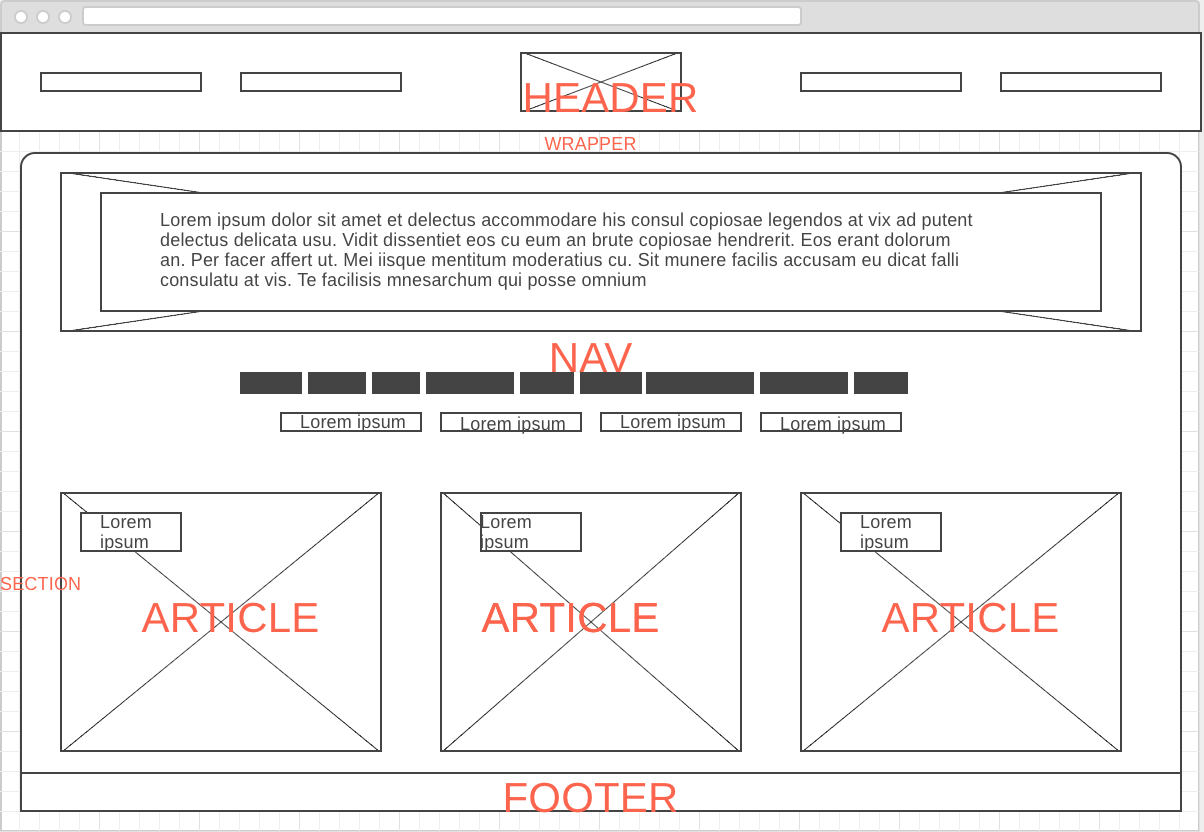
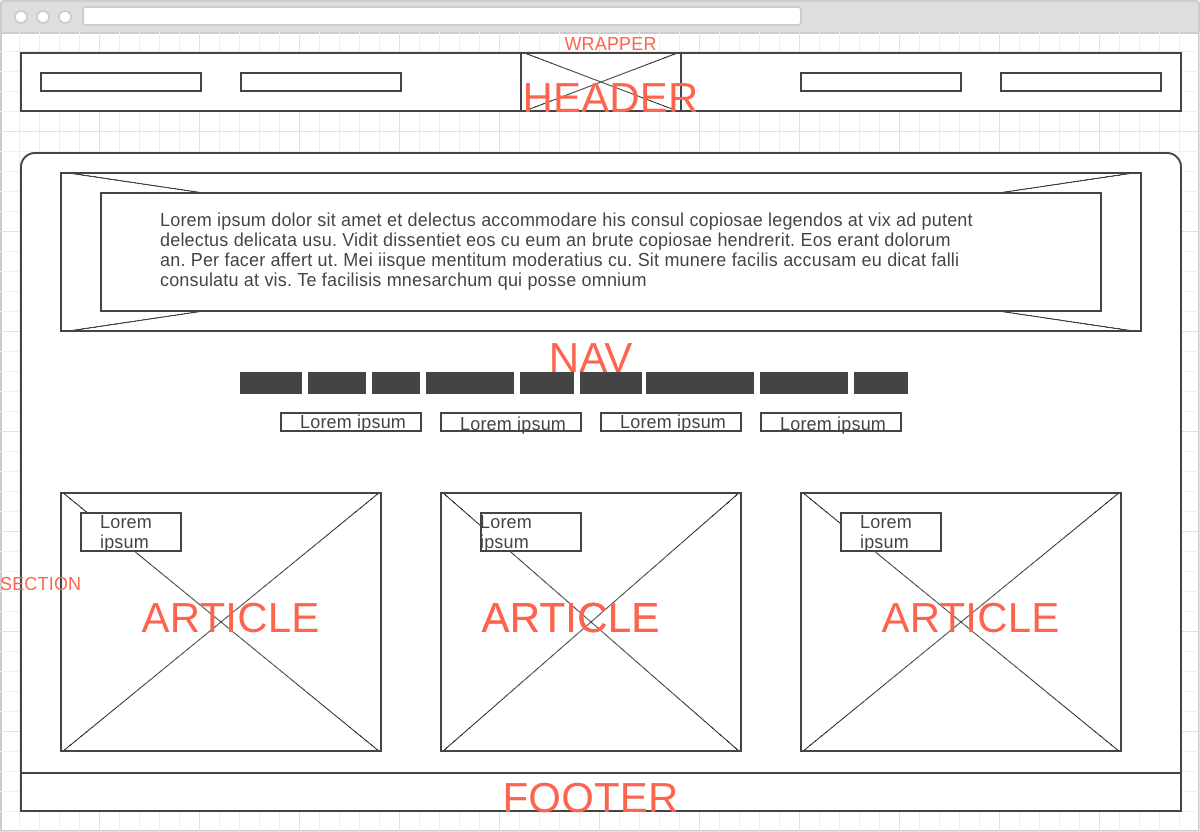
Unit5Design

diff --git a/unit_5/index.html b/unit_5/index.html
@@ -1,0 +1,60 @@
+<!DOCTYPE html>
+<html>
+<head>
+	<link rel="stylesheet" type="text/css" href="css/style.css">
+	<title>
+		Brian's Hockey Equipment
+	</title>
+		
+		<body>
+			<div class="wrapper">
+				<header>
+					<h1>Brian's Hockey Equipment</h1>
+					<h3 id="slogan">Hockey equipment for everyone.</h3>
+				</header>
+
+				<nav>
+					<ul>
+						<li>Home</li>
+						<li>Shop</li>
+						<li>Sale</li>
+						<li>Gift Cards</li>
+					</ul>
+				</nav>
+				<section id="Description">
+					<p>Here at Brian's Hockey Equipment, we take hockey seriously. It's our job, after all. We sell hockey equipment to athletes of all levels, including:</p>
+				</section>
+
+				<section id="Team Breakdown">
+					<article id="NHL Teams">
+						<img src="images/NHL_teams.png" alt="NHL Teams" width="250" height="250"
+						<br>
+							<figcaption>NHL Teams</figcaption>
+					</article>
+
+					<article id="AHL Teams">
+						<img src="images/AHL_teams.png" alt="AHL Teams" width="250" height ="250"
+						<br>
+							<figcaption>AHL Teams</figcaption>
+					</article>
+
+					<article id="College teams">
+						<img src="images/College_teams.png" alt="College Teams" width="250" height="250"
+						<br>
+							<figcaption>College Teams</figcaption>
+					</article>
+				</section>
+				<footer>
+					<h5>Our Selection</h5>
+					<ul>
+						<li>NHL</li>
+						<li>AHL</li>
+						<li>College</li>
+					</ul>
+					<p><a href="mailto:bbrown@draftkings.com">Contact Me</a>
+					</p>
+				</footer>
+			</div>
+		</body>
+</head>
+</html>

diff --git a/unit_5/css/style.css b/unit_5/css/style.css
@@ -1,0 +1,59 @@
+@import url('https://fonts.googleapis.com/css?family=Fjalla+One');
+@import url('https://fonts.googleapis.com/css?family=Tajawal');
+
+h1,h5 {
+	font-family: 'Fjalla One';
+	text-align: center;
+	color: #000;
+}
+
+#slogan {
+	font-family: 'Tajawal';
+	font-style: italic;
+}
+
+body {
+	font-family: 'Tajawal';
+	color: #2B93FF;
+}
+
+ul {
+	list-style: none;
+}
+
+header {
+	background-color:#FFED74;
+	border: 1px black solid;
+	padding: 20px;
+}
+
+nav {
+	background-color:#E8C66A;
+	border: 1px black solid;
+	padding: 20px;
+}
+
+aside {
+	background-color:#FFC675;
+	border: 1px black solid;
+	padding: 20px;
+}
+
+article {
+	background-color:E89C6C;
+	border: 1px black solid;
+	padding: 20px;
+}
+
+footer {
+	background-color:#FF957E;
+	border: 1px black solid;
+	padding: 20px;
+}
+
+section {
+	background-color:#FFE2B8;
+	border: 1px black solid;
+	padding: 20px;
+}
+
